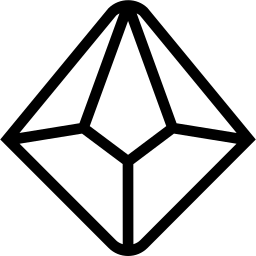
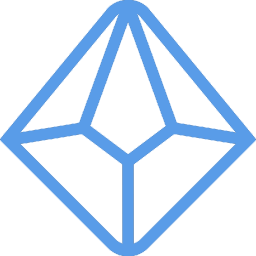
Style for characters, tutorial and dice

Changed region(s): [[0.0, 0.0, 1.0, 1.0]]

diff --git a/tcc-rpg/src/css/Characters.css b/tcc-rpg/src/css/Characters.css
@@ -1,112 +1,75 @@
-body,
-button,
-input,
-select {
-  font-family: Arial, sans-serif; /* Adicione sua fonte preferida aqui */
+body, button, input, select {
+  font-family: Arial, Helvetica, sans-serif;
+  background-color: #202733;
 }
 
-.character-creation-container {
-  background: #f4f4f4;
-  border-radius: 8px;
-  padding: 20px;
+body::-webkit-scrollbar {
+  width: 12px;
+}
+body::-webkit-scrollbar-track {
+  background: #171c25;
+}
+body::-webkit-scrollbar-thumb {
+  background-color: #354155;
+  border-radius: 10px;
+  border: 3px solid #354155;
 }
 
-.character-form .input-group {
-  margin-bottom: 15px;
+/* Typography */
+h2 {
+  color: #599ce8;
 }
 
-.character-form label {
-  display: block;
-  margin-bottom: 5px;
-  font-weight: bold;
+.character-list-container {
+  color: #d6e5ef;
 }
 
-.character-form input,
-.character-form select {
-  width: 100%;
-  padding: 10px;
-  border: 1px solid #ccc;
-  border-radius: 4px;
-}
-
-.create-button {
-  background: #007bff;
-  color: white;
-  padding: 10px 20px;
-  border: none;
-  border-radius: 4px;
-  cursor: pointer;
-}
-
-.error-message {
-  color: red;
-}
-
-.character-list-container,
+/* Cards & Containers */
+.character-creation-container, 
+.character-list-container, 
 .character-edit-container {
-  background: #f4f4f4;
+  background-color: #202733;
   border-radius: 8px;
+  box-shadow: 0 4px 8px rgba(0, 0, 0, 0.1);
   padding: 20px;
 }
 
-.character-table {
-  width: 100%;
-  border-collapse: collapse;
-}
-
-.character-table th,
-.character-table td {
-  border: 1px solid #ccc;
-  padding: 10px;
-  text-align: left;
-}
-
-.character-table th {
-  background: #f2f2f2;
-}
-
-.character-table tr:nth-child(even) {
-  background: #f9f9f9;
-}
-
+/* Buttons & Links */
 .create-button,
 .edit-button,
 .delete-button,
 .save-button,
 .detail-button {
-  padding: 8px 16px;
-  margin: 5px;
+  padding: 10px 20px;
   border: none;
   border-radius: 4px;
+  font-weight: bold;
   cursor: pointer;
-  text-decoration: none; /* Remove o sublinhado dos links */
-  display: inline-block; /* Faz com que os links se comportem como botões */
-  color: white; /* Cor do texto dos links e botões */
+  transition: background-color 0.3s ease;
 }
 
 .create-button {
-  background: #007bff;
+  background-color: #599ce8;
   color: white;
 }
 
-.detail-button {
-  background: #3498db; /* Azul */
+.create-button:hover {
+  background-color: #4c84c4;
 }
 
-.edit-button {
-  background: #f4e542; /* Amarelo */
-  color: black; /* Cor do texto para o botão Editar */
+.detail-button, .edit-button {
+  display: inline-block;
+  padding: 10px 20px;
+  border: none;
+  border-radius: 4px;
+  font-weight: bold;
+  cursor: pointer;
+  transition: background-color 0.3s ease;
+  color: white; /* Set the text color to white */
+  text-decoration: none; /* Remove the underline from the link */
+  background-color: #202733;
 }
 
-.delete-button {
-  background: #e74c3c;
-  color: white;
-}
-
-.save-button {
-  background: #2ecc71;
-  color: white;
-}
 
 .attributes-row {
   display: flex;
@@ -154,24 +117,42 @@ select {
   transition: background-color 0.3s ease; /* Transição suave */
 }
 
+.detail-button, .edit-button {
+  margin-right: 20px; /* Adjust the value as needed */
+  box-shadow: 0 4px 6px rgba(0, 0, 0, 0.1);
+}
+
 .create-button:hover {
   background: #0069d9;
 }
 
-.detail-button:hover {
-  background: #2384c6; /* Um azul um pouco mais escuro */
+.detail-button:hover, .edit-button:hover {
+  background: #0069d9; /* Um azul um pouco mais escuro */
+  box-shadow: 0 6px 8px rgba(0, 0, 0, 0.15);
 }
 
-.edit-button:hover {
-  background: #e3d235; /* Um amarelo um pouco mais escuro */
-}
 
 .delete-button:hover {
-  background: #d43f00; /* Um vermelho um pouco mais escuro */
+  background: #0069d9; /* Um vermelho um pouco mais escuro */
 }
 
 .save-button:hover {
   background: #28b865; /* Um verde um pouco mais escuro */
+}
+
+.character-table {
+  width: 100%;
+  border-collapse: collapse;
+}
+
+.character-table th, .character-table td {
+  border: 1px solid #354155; /* Set border for the table headers and cells */
+  padding: 8px;
+  text-align: left;
+}
+
+.character-table tr:nth-child(even) {
+  background-color: #2b3545; /* Add a different background color for even rows for better readability */
 }
 
 @media (max-width: 768px) {
@@ -194,25 +175,36 @@ select {
 }
 
 @media (max-width: 480px) {
+
+  h2 {
+    font-size: 20px;
+    margin-bottom: 15px;
+  }
+
+  td {
+    display: flex;
+    flex-direction: column;
+  }
+
   .character-form label {
     font-size: 14px;
   }
 
-  .character-creation-container,
-  .character-list-container,
-  .character-edit-container {
-    padding: 10px;
+  .character-list-container {
+    margin: 10px 0;
   }
 
   .character-form input {
     padding: 6px;
   }
 
-  .create-button,
-  .edit-button,
-  .delete-button,
-  .save-button {
+  .create-button, .edit-button, .delete-button, .save-button {
     padding: 5px 10px;
     font-size: 12px;
+  }
+
+
+  .detail-button, .edit-button, .delete-button {
+    margin-bottom: 10px;
   }
 }

diff --git a/tcc-rpg/src/css/Home.css b/tcc-rpg/src/css/Home.css
@@ -61,7 +61,7 @@ body::-webkit-scrollbar-thumb {
 
 .card-content-right {
   flex: 1;
-  margin-top: 120px;
+  margin-top: 200px;
 }
 
 .card-content-left img {
@@ -128,7 +128,7 @@ body::-webkit-scrollbar-thumb {
   .card-cadastro,
   .features-section {
     width: 100%;
-    margin-left: 0;
+    margin-left: -22px;
   }
 
   .card-content {
@@ -150,6 +150,10 @@ body::-webkit-scrollbar-thumb {
     display: block;
     margin: 20px auto 0; /* Centraliza o botão horizontalmente */
   }
+
+  .card-content-left img {
+    height: 50vh; /* Ajusta a altura da imagem */
+  }
 }
 
 /* Para telas com largura até 480px (smartphones) */
@@ -160,5 +164,13 @@ body::-webkit-scrollbar-thumb {
 
   .card p {
     font-size: 16px;
+  }
+
+  .card-image {
+    padding: 40px 10px; /* Aumenta o padding para garantir espaço para o texto */
+  }
+
+  .card-content-left img {
+    height: 30vh; /* Ajusta a altura da imagem para dispositivos muito pequenos */
   }
 }

diff --git a/tcc-rpg/src/css/Dice.css b/tcc-rpg/src/css/Dice.css
@@ -1,3 +1,7 @@
+body {
+  background-color: #202733;
+}
+
 button {
   cursor: pointer;
   padding: 0.75em 1.25em;
@@ -9,8 +13,8 @@ button {
   transition: transform 0.1s, box-shadow 0.2s;
   box-shadow: 0.125em 0.125em 0.625em rgba(0, 0, 0, 0.2);
   text-shadow: 0.0625em 0.0625em 0.125em rgba(0, 0, 0, 0.2);
-  background-color: #007bff;
-  color: white;
+  background-color: #354155; /* Modificado para manter a consistência */
+  color: #d6e5ef;
 }
 
 button:hover {
@@ -21,6 +25,13 @@ button:hover {
 button:active {
   transform: translateY(0.0625em);
   box-shadow: 0.125em 0.125em 0.5em rgba(0, 0, 0, 0.25);
+}
+
+.diceWrapper {
+  display: flex;
+  justify-content: center;
+  align-items: center;
+  gap: 20px; /* Adiciona um espaço entre os dados */
 }
 
 /* Responsive Styling */

diff --git a/tcc-rpg/src/css/Tutorial.css b/tcc-rpg/src/css/Tutorial.css
@@ -1,0 +1,42 @@
+* {
+    font-family: Arial, Helvetica, sans-serif;
+  }
+  
+  body {
+    background-color: #202733;
+  }
+  
+  h1 {
+    font-size: 36px;
+    font-weight: bold;
+    text-align: center;
+    margin-bottom: 20px;
+    color: #599ce8;
+  }
+  
+  p {
+    font-size: 18px;
+    line-height: 1.5; /* Melhor espaçamento entre linhas para leitura */
+    color: #d6e5ef;
+    padding: 20px;
+    margin: 0 auto; /* Centralizar horizontalmente */
+    max-width: 800px; /* Limita a largura para uma leitura mais confortável */
+  }
+  
+  @media (max-width: 768px) {
+    p {
+      font-size: 16px;
+      padding: 10px;
+    }
+  }
+  
+  @media (max-width: 480px) {
+    h1 {
+      font-size: 28px;
+    }
+  
+    p {
+      font-size: 14px;
+    }
+  }
+  

diff --git a/tcc-rpg/src/pages/DiceRoller.js b/tcc-rpg/src/pages/DiceRoller.js
@@ -43,8 +43,8 @@ function Die({ sides, result, setResult }) {
 
   return (
     <div style={{ display: "inline-block", margin: "20px 20px" }}>
-      <button onClick={rollDie} disabled={rolling}>
-        Roll {sides}-sided Die
+      <button onClick={rollDie} disabled={rolling} style={{marginLeft: "40px"}}>
+        Rolar D{sides}
       </button>
       <div
         style={{
@@ -65,7 +65,7 @@ function Die({ sides, result, setResult }) {
             top: "50%",
             left: "50%",
             transform: "translate(-50%, -50%)",
-            color: "black",
+            color: "#599ce8",
             fontSize: "25px",
             fontWeight: "bold",
           }}

diff --git a/tcc-rpg/src/pages/Tutorial.js b/tcc-rpg/src/pages/Tutorial.js
@@ -1,4 +1,5 @@
 import React from 'react';
+import "../css/Tutorial.css";
 
 const Tutorial = () => {
   return (
